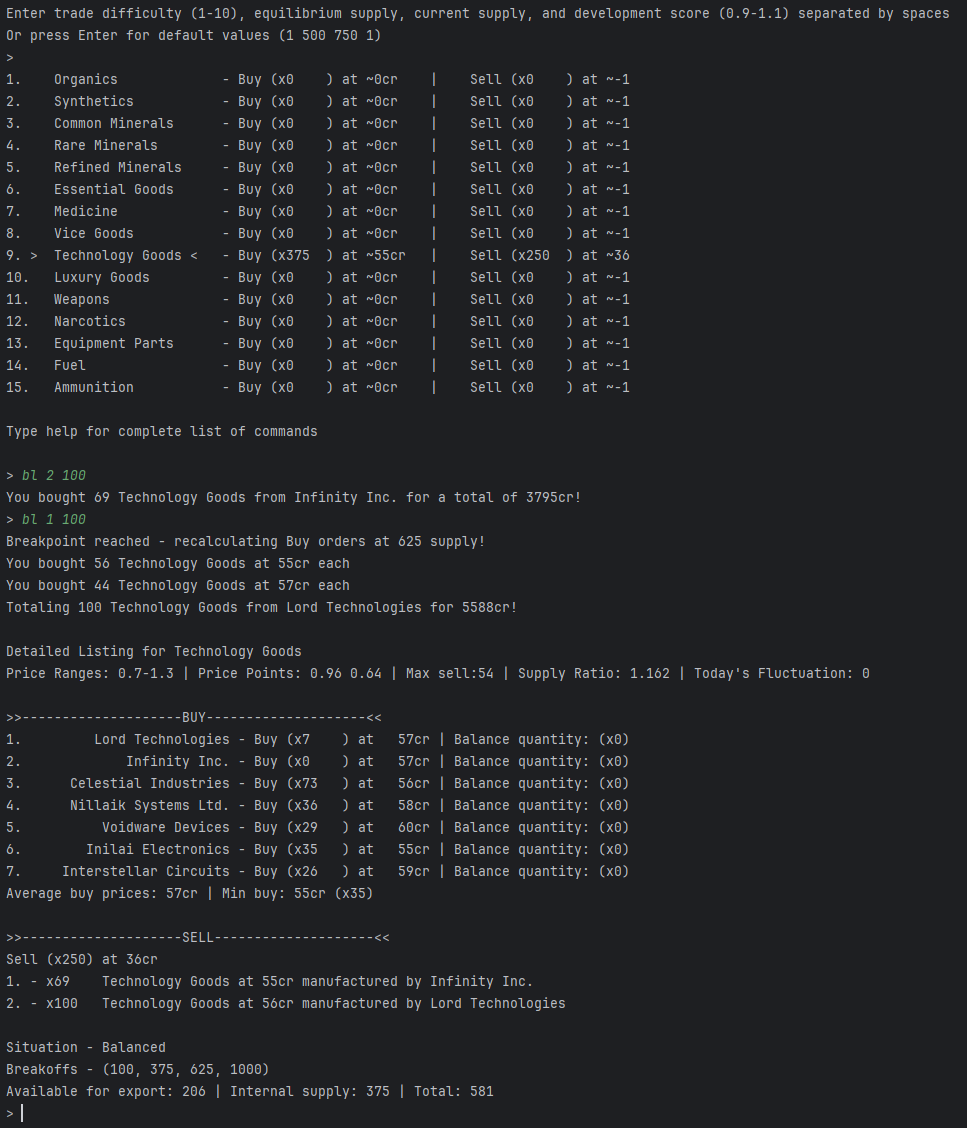
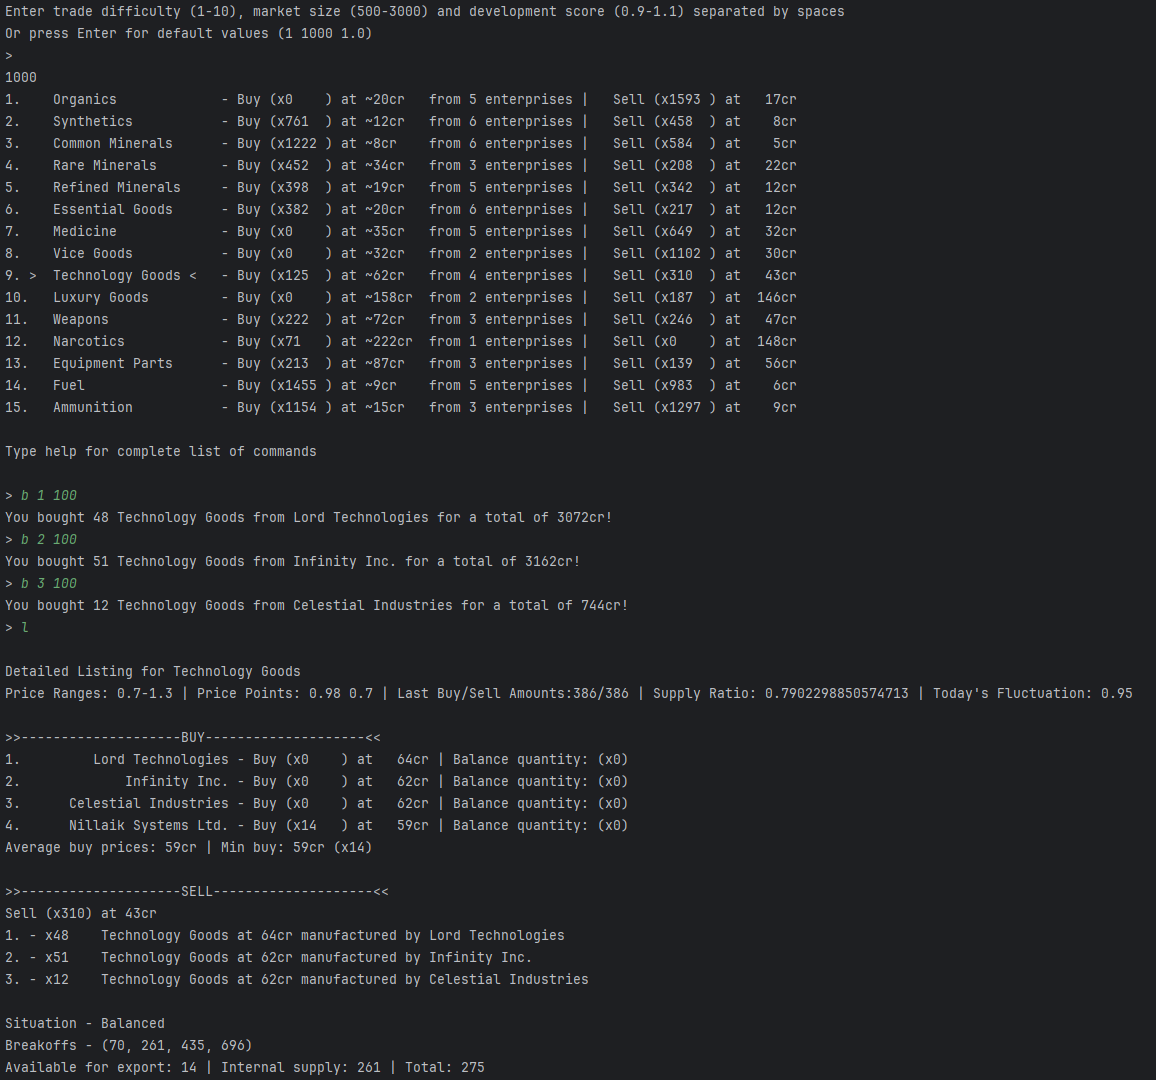
Preparing changes to implement volatility

diff --git a/market.py b/market.py
@@ -84,21 +84,21 @@ TRADE_GOOD_ENTERPRISE_RULES = {
 }
 
 TRADE_GOODS_DATA = {
-        "Organics":         {"base_price": 17,  "base_range": 0.40},
-        "Synthetics":       {"base_price": 13,  "base_range": 0.35},
-        "Common Minerals":  {"base_price": 9,   "base_range": 0.60},
-        "Rare Minerals":    {"base_price": 40,  "base_range": 0.50},
-        "Refined Minerals": {"base_price": 20,  "base_range": 0.40},
-        "Essential Goods":  {"base_price": 22,  "base_range": 0.50},
-        "Medicine":         {"base_price": 30,  "base_range": 0.40},
-        "Vice Goods":       {"base_price": 30,  "base_range": 0.40},
-        "Technology Goods": {"base_price": 60,  "base_range": 0.30},
-        "Luxury Goods":     {"base_price": 150, "base_range": 0.25},
-        "Weapons":          {"base_price": 75,  "base_range": 0.33},
-        "Narcotics":        {"base_price": 300, "base_range": 0.45},
-        "Equipment Parts":  {"base_price": 90,  "base_range": 0.15},
-        "Fuel":             {"base_price": 10,  "base_range": 0.30},
-        "Ammunition":       {"base_price": 15,  "base_range": 0.20},
+        "Organics":         {"base_price": 17,  "base_range": 0.55, "volatility_price":3, "volatility_duration": 40},
+        "Synthetics":       {"base_price": 13,  "base_range": 0.35, "volatility_price":1, "volatility_duration": 180},
+        "Common Minerals":  {"base_price": 9,   "base_range": 0.40, "volatility_price":2, "volatility_duration": 365},
+        "Rare Minerals":    {"base_price": 40,  "base_range": 0.60, "volatility_price":8, "volatility_duration": 100},
+        "Refined Minerals": {"base_price": 20,  "base_range": 0.40, "volatility_price":3, "volatility_duration": 200},
+        "Essential Goods":  {"base_price": 22,  "base_range": 0.50, "volatility_price":3, "volatility_duration": 50},
+        "Medicine":         {"base_price": 30,  "base_range": 0.40, "volatility_price":1, "volatility_duration": 200},
+        "Vice Goods":       {"base_price": 30,  "base_range": 0.40, "volatility_price":5, "volatility_duration": 40},
+        "Technology Goods": {"base_price": 60,  "base_range": 0.30, "volatility_price":4, "volatility_duration": 150},
+        "Luxury Goods":     {"base_price": 150, "base_range": 0.25, "volatility_price":30, "volatility_duration": 120},
+        "Weapons":          {"base_price": 75,  "base_range": 0.33, "volatility_price":10, "volatility_duration": 80},
+        "Narcotics":        {"base_price": 300, "base_range": 0.45, "volatility_price":50, "volatility_duration": 20},
+        "Equipment Parts":  {"base_price": 90,  "base_range": 0.15, "volatility_price":3, "volatility_duration": 100},
+        "Fuel":             {"base_price": 10,  "base_range": 0.30, "volatility_price":1, "volatility_duration": 70},
+        "Ammunition":       {"base_price": 15,  "base_range": 0.20, "volatility_price":2, "volatility_duration": 80},
 }
 
 ILLEGAL_GOODS_BY_RACE = {

diff --git a/README.md b/README.md
@@ -34,6 +34,10 @@ Market:
 
 # Planned features
 - Change breakpoints for every 25% of equilibrium from 0 to 200% instead of at fixed values
+- More realistic price fluctuations - substantial price changes at large random intervals of time.
+- Implement Volatility - how fast and frequently the price fluctuates.
+- Recession - Triggers producer bonuses, points price fluctuations downwards in price. Lasts 0.5-1.5 years.
+- Growth - Triggers selling bonuses, points price fluctuations upwards in price. Also lasts 0.5-1.5 years
 - In addition to Enterprise Producers, add many smaller in quantity Individual Producers
 - Buying from one Market and selling it to another and see the changes in price
 - Add interaction with Trade Good Legality and Essential status
